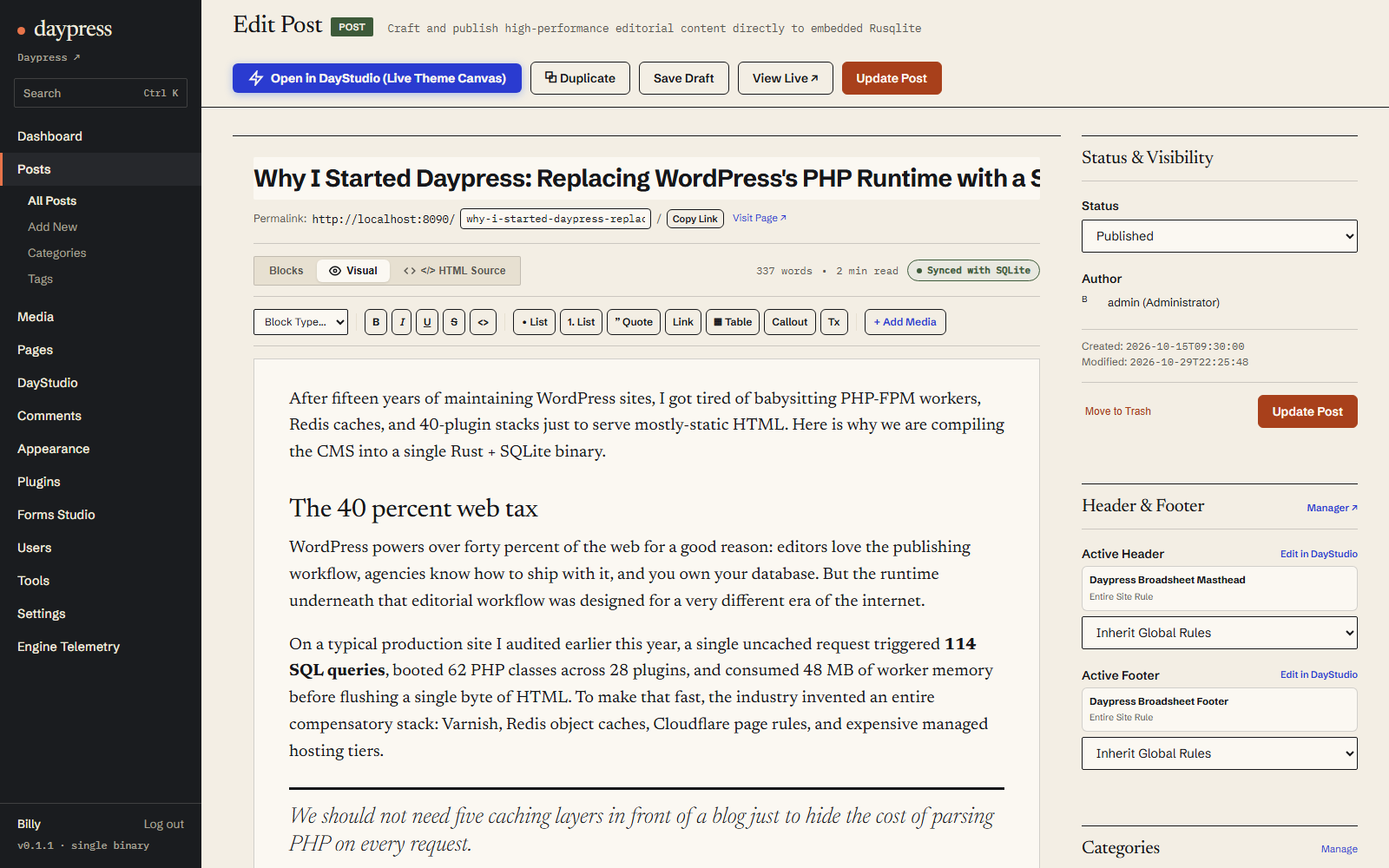
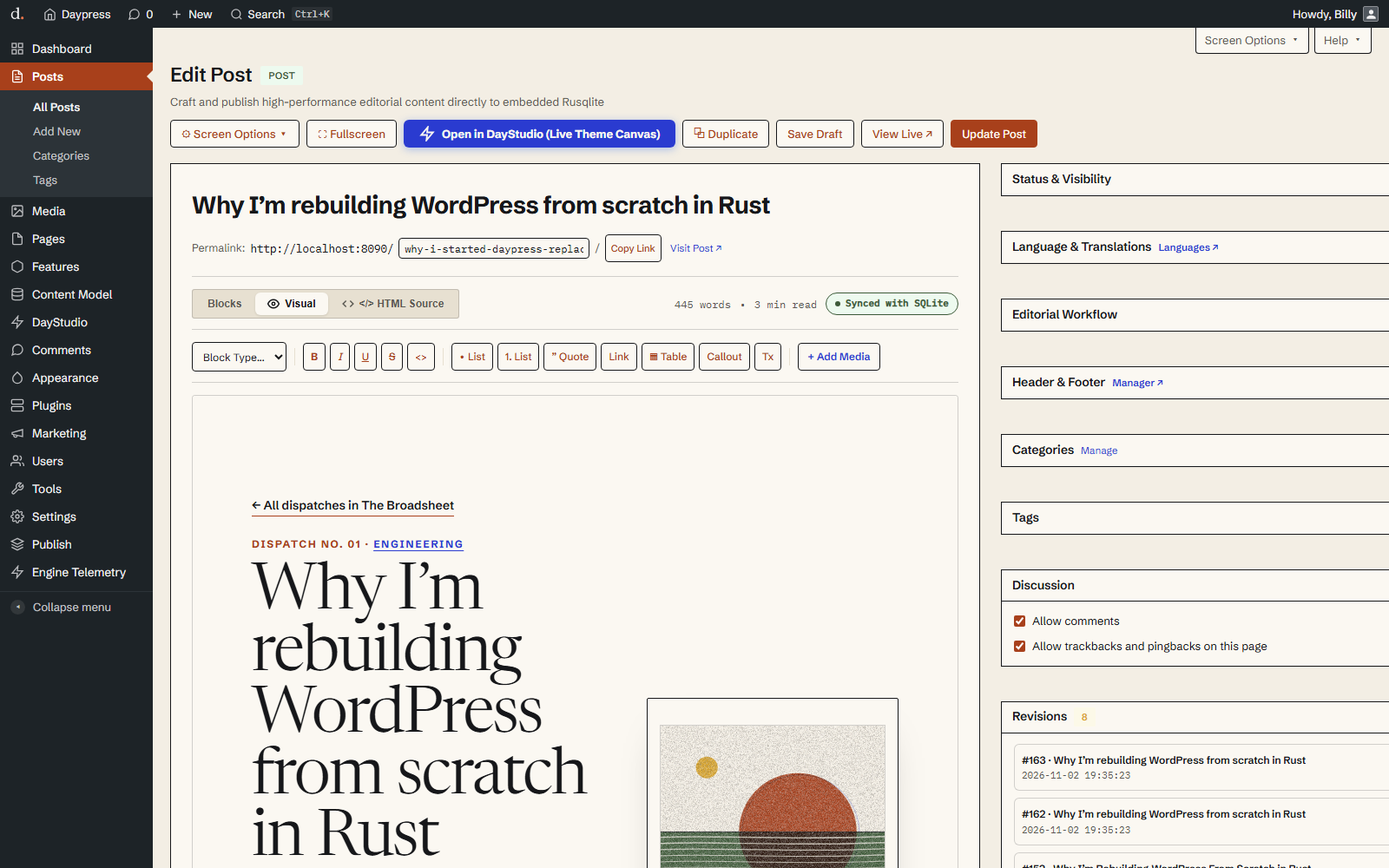
docs: refresh all product screenshots with WordPress-aligned v1.0.2 Admin UX

diff --git a/crates/daypress-server/src/templates/admin/editor/markup/mod.rs b/crates/daypress-server/src/templates/admin/editor/markup/mod.rs
@@ -162,24 +162,28 @@ pub fn render_post_new_view_with_fields(
         String::new()
     };
 
+    let _add_new_action_btn = if existing.is_some() {
+        format!(
+            r#"<a href="/d-admin/post-new?post_type={}" class="page-title-action">Add New {}</a>"#,
+            escape_html(post_type),
+            type_singular
+        )
+    } else {
+        String::new()
+    };
+
     let top_builder_btn = if !initial_id.is_empty() {
         format!(
-            r#"<a href="/d-admin/builder?post={}" class="btn" style="background: linear-gradient(135deg, var(--press) 0%, var(--press) 100%); color: var(--paper-raised); border: none; font-weight: 700; display: inline-flex; align-items: center; gap: 8px; padding: 7px 18px; border-radius: 6px; box-shadow: 0 2px 10px rgba(37, 99, 235, 0.35); text-decoration: none; transition: all 0.2s ease;">
-                <svg width="15" height="15" viewBox="0 0 24 24" fill="none" stroke="currentColor" stroke-width="2.5"><polygon points="13 2 3 14 12 14 11 22 21 10 12 10 13 2"></polygon></svg>
-                <span>Open in DayStudio (Live Theme Canvas)</span>
-            </a>"#,
+            r#"<a href="/d-admin/builder?post={}" class="page-title-action">Edit with DayStudio</a>"#,
             initial_id
         )
     } else {
-        r#"<button type="button" class="btn" id="btnEditVisualBuilder" onclick="switchToVisualBuilder()" style="background: linear-gradient(135deg, var(--press) 0%, var(--press) 100%); color: var(--paper-raised); border: none; font-weight: 600; display: inline-flex; align-items: center; gap: 8px; padding: 7px 16px; border-radius: 6px; box-shadow: 0 2px 8px rgba(37, 99, 235, 0.35); cursor: pointer; transition: all 0.2s ease;">
-            <svg width="15" height="15" viewBox="0 0 24 24" fill="none" stroke="currentColor" stroke-width="2.5"><polygon points="13 2 3 14 12 14 11 22 21 10 12 10 13 2"></polygon></svg>
-            <span>Open in DayStudio</span>
-        </button>"#.to_string()
+        r#"<button type="button" class="page-title-action" id="btnEditVisualBuilder" onclick="switchToVisualBuilder()">Edit with DayStudio</button>"#.to_string()
     };
 
     let duplicate_btn_html = if existing.is_some() {
         format!(
-            r#"<button type="button" class="btn btn-secondary" onclick="duplicateCurrentPost()" title="Deep-clone this {}">⧉ Duplicate</button>"#,
+            r#"<button type="button" class="page-title-action" onclick="duplicateCurrentPost()" title="Duplicate this {}">Duplicate</button>"#,
             type_singular
         )
     } else {
@@ -342,24 +346,22 @@ pub fn render_post_new_view_with_fields(
     );
 
     let body = format!(
-        r#"<div class="page-header">
-            <div><div style="display: flex; align-items: center; gap: 10px;"><h1 class="page-title">{title_label}</h1><span class="badge badge-published" style="font-size: 11px; text-transform: uppercase;">{post_type}</span></div><p class="page-subtitle">Craft and publish high-performance editorial content directly to embedded Rusqlite</p></div>
-            <div style="display: flex; gap: 8px; align-items: center; flex-wrap: wrap;"><button type="button" class="btn btn-secondary" id="btnEditorScreenOptions" onclick="toggleEditorScreenOptions()" title="WordPress Screen Options: Show/Hide Meta Boxes &amp; Column Layout">⚙ Screen Options ▾</button><button type="button" class="btn btn-secondary" id="btnEditorFullscreen" onclick="toggleEditorDistractionFree()" title="Distraction-Free Fullscreen Mode (Shift+Alt+F)">⛶ Fullscreen</button>{top_builder_btn} {duplicate_btn_html}<button type="button" class="btn btn-secondary" onclick="saveDraft()">Save Draft</button><button type="button" class="btn btn-secondary" onclick="previewPage()">View Live ↗</button><button type="button" class="btn btn-primary dp-publish-btn" onclick="document.getElementById('postFormSubmit').click()">{btn_text}</button></div>
-        </div>
-        <div id="editorScreenOptionsPanel" class="day-card" style="display: none; padding: 16px 20px; margin-bottom: 18px; border: 1px solid var(--press); background: var(--paper-raised);">
-            <div style="display: flex; justify-content: space-between; align-items: center; margin-bottom: 12px; padding-bottom: 10px; border-bottom: 1px solid var(--rule);"><div style="display: flex; align-items: center; gap: 10px;"><strong style="font-size: 13px; color: var(--ink);">Screen Options — Boxes &amp; Layout</strong><span class="badge badge-published" style="font-size: 10.5px;">Persisted in User Preferences (SQLite)</span></div><div style="display: flex; gap: 6px; align-items: center;"><button type="button" class="btn btn-secondary" style="height: 26px; padding: 0 10px; font-size: 11.5px;" onclick="toggleAllEditorMetaBoxes(true)">Collapse All Boxes</button><button type="button" class="btn btn-secondary" style="height: 26px; padding: 0 10px; font-size: 11.5px;" onclick="toggleAllEditorMetaBoxes(false)">Expand All Boxes</button><button type="button" class="btn btn-secondary" style="height: 26px; padding: 0 10px; font-size: 11.5px;" onclick="resetEditorScreenOptions()">Reset Defaults</button></div></div>
+        r#"<div id="editorScreenOptionsPanel" class="day-card" style="display: none; padding: 14px 18px; margin-bottom: 16px; border: 1px solid var(--rule-strong); background: var(--paper-raised);">
+            <div style="display: flex; justify-content: space-between; align-items: center; margin-bottom: 10px; padding-bottom: 8px; border-bottom: 1px solid var(--rule);"><strong style="font-size: 13px; color: var(--ink);">Screen Elements</strong><div style="display: flex; gap: 6px; align-items: center;"><button type="button" class="btn btn-secondary" style="min-height: 26px; padding: 2px 10px; font-size: 12px;" onclick="toggleAllEditorMetaBoxes(true)">Collapse All</button><button type="button" class="btn btn-secondary" style="min-height: 26px; padding: 2px 10px; font-size: 12px;" onclick="toggleAllEditorMetaBoxes(false)">Expand All</button><button type="button" class="btn btn-secondary" style="min-height: 26px; padding: 2px 10px; font-size: 12px;" onclick="resetEditorScreenOptions()">Reset Defaults</button></div></div>
             <div style="margin-bottom: 12px;">
-                <div style="font-size: 11.5px; font-weight: 700; color: var(--ink-muted); text-transform: uppercase; letter-spacing: 0.04em; margin-bottom: 8px;">Screen Elements (Check to Show / Uncheck to Hide)</div>
-                <div id="editorScreenOptionsCheckboxes" style="display: flex; flex-wrap: wrap; gap: 14px; font-size: 12.5px;">
-                    <label style="display:inline-flex;align-items:center;gap:6px;cursor:pointer;"><input type="checkbox" class="dp-screen-opt-cb" data-box-id="status_visibility" checked onchange="onEditorScreenOptionToggle('status_visibility', this.checked)" /> Status &amp; Visibility</label><label style="display:inline-flex;align-items:center;gap:6px;cursor:pointer;"><input type="checkbox" class="dp-screen-opt-cb" data-box-id="i18n" checked onchange="onEditorScreenOptionToggle('i18n', this.checked)" /> Language &amp; Translations</label><label style="display:inline-flex;align-items:center;gap:6px;cursor:pointer;"><input type="checkbox" class="dp-screen-opt-cb" data-box-id="editorial_workflow" checked onchange="onEditorScreenOptionToggle('editorial_workflow', this.checked)" /> Editorial Workflow</label><label style="display:inline-flex;align-items:center;gap:6px;cursor:pointer;"><input type="checkbox" class="dp-screen-opt-cb" data-box-id="page_attributes" checked onchange="onEditorScreenOptionToggle('page_attributes', this.checked)" /> Page Attributes</label><label style="display:inline-flex;align-items:center;gap:6px;cursor:pointer;"><input type="checkbox" class="dp-screen-opt-cb" data-box-id="header_footer" checked onchange="onEditorScreenOptionToggle('header_footer', this.checked)" /> Header &amp; Footer</label><label style="display:inline-flex;align-items:center;gap:6px;cursor:pointer;"><input type="checkbox" class="dp-screen-opt-cb" data-box-id="taxonomies" checked onchange="onEditorScreenOptionToggle('taxonomies', this.checked)" /> Categories &amp; Tags</label><label style="display:inline-flex;align-items:center;gap:6px;cursor:pointer;"><input type="checkbox" class="dp-screen-opt-cb" data-box-id="discussion" checked onchange="onEditorScreenOptionToggle('discussion', this.checked)" /> Discussion</label><label style="display:inline-flex;align-items:center;gap:6px;cursor:pointer;"><input type="checkbox" class="dp-screen-opt-cb" data-box-id="featured_image" checked onchange="onEditorScreenOptionToggle('featured_image', this.checked)" /> Featured Image</label><label style="display:inline-flex;align-items:center;gap:6px;cursor:pointer;"><input type="checkbox" class="dp-screen-opt-cb" data-box-id="revisions" checked onchange="onEditorScreenOptionToggle('revisions', this.checked)" /> Revisions</label><label style="display:inline-flex;align-items:center;gap:6px;cursor:pointer;"><input type="checkbox" class="dp-screen-opt-cb" data-box-id="excerpt" checked onchange="onEditorScreenOptionToggle('excerpt', this.checked)" /> Excerpt</label><label style="display:inline-flex;align-items:center;gap:6px;cursor:pointer;"><input type="checkbox" class="dp-screen-opt-cb" data-box-id="structured_fields" checked onchange="onEditorScreenOptionToggle('structured_fields', this.checked)" /> Structured Fields</label><label style="display:inline-flex;align-items:center;gap:6px;cursor:pointer;"><input type="checkbox" class="dp-screen-opt-cb" data-box-id="acf_settings" checked onchange="onEditorScreenOptionToggle('acf_settings', this.checked)" /> ACF Page Settings</label><label style="display:inline-flex;align-items:center;gap:6px;cursor:pointer;"><input type="checkbox" class="dp-screen-opt-cb" data-box-id="custom_fields" checked onchange="onEditorScreenOptionToggle('custom_fields', this.checked)" /> Custom Fields (<code>postmeta</code>)</label><label style="display:inline-flex;align-items:center;gap:6px;cursor:pointer;"><input type="checkbox" class="dp-screen-opt-cb" data-box-id="seo_studio" checked onchange="onEditorScreenOptionToggle('seo_studio', this.checked)" /> SEO &amp; Readability Studio</label>
+                <div id="editorScreenOptionsCheckboxes" style="display: flex; flex-wrap: wrap; gap: 14px; font-size: 13px;">
+                    <label style="display:inline-flex;align-items:center;gap:6px;cursor:pointer;"><input type="checkbox" class="dp-screen-opt-cb" data-box-id="status_visibility" checked onchange="onEditorScreenOptionToggle('status_visibility', this.checked)" /> Publish</label><label style="display:inline-flex;align-items:center;gap:6px;cursor:pointer;"><input type="checkbox" class="dp-screen-opt-cb" data-box-id="i18n" checked onchange="onEditorScreenOptionToggle('i18n', this.checked)" /> Language &amp; Translations</label><label style="display:inline-flex;align-items:center;gap:6px;cursor:pointer;"><input type="checkbox" class="dp-screen-opt-cb" data-box-id="editorial_workflow" checked onchange="onEditorScreenOptionToggle('editorial_workflow', this.checked)" /> Editorial Workflow</label><label style="display:inline-flex;align-items:center;gap:6px;cursor:pointer;"><input type="checkbox" class="dp-screen-opt-cb" data-box-id="page_attributes" checked onchange="onEditorScreenOptionToggle('page_attributes', this.checked)" /> Page Attributes</label><label style="display:inline-flex;align-items:center;gap:6px;cursor:pointer;"><input type="checkbox" class="dp-screen-opt-cb" data-box-id="header_footer" checked onchange="onEditorScreenOptionToggle('header_footer', this.checked)" /> Header &amp; Footer</label><label style="display:inline-flex;align-items:center;gap:6px;cursor:pointer;"><input type="checkbox" class="dp-screen-opt-cb" data-box-id="taxonomies" checked onchange="onEditorScreenOptionToggle('taxonomies', this.checked)" /> Categories &amp; Tags</label><label style="display:inline-flex;align-items:center;gap:6px;cursor:pointer;"><input type="checkbox" class="dp-screen-opt-cb" data-box-id="discussion" checked onchange="onEditorScreenOptionToggle('discussion', this.checked)" /> Discussion</label><label style="display:inline-flex;align-items:center;gap:6px;cursor:pointer;"><input type="checkbox" class="dp-screen-opt-cb" data-box-id="featured_image" checked onchange="onEditorScreenOptionToggle('featured_image', this.checked)" /> Featured Image</label><label style="display:inline-flex;align-items:center;gap:6px;cursor:pointer;"><input type="checkbox" class="dp-screen-opt-cb" data-box-id="revisions" checked onchange="onEditorScreenOptionToggle('revisions', this.checked)" /> Revisions</label><label style="display:inline-flex;align-items:center;gap:6px;cursor:pointer;"><input type="checkbox" class="dp-screen-opt-cb" data-box-id="excerpt" checked onchange="onEditorScreenOptionToggle('excerpt', this.checked)" /> Excerpt</label><label style="display:inline-flex;align-items:center;gap:6px;cursor:pointer;"><input type="checkbox" class="dp-screen-opt-cb" data-box-id="structured_fields" checked onchange="onEditorScreenOptionToggle('structured_fields', this.checked)" /> Structured Fields</label><label style="display:inline-flex;align-items:center;gap:6px;cursor:pointer;"><input type="checkbox" class="dp-screen-opt-cb" data-box-id="acf_settings" checked onchange="onEditorScreenOptionToggle('acf_settings', this.checked)" /> ACF Page Settings</label><label style="display:inline-flex;align-items:center;gap:6px;cursor:pointer;"><input type="checkbox" class="dp-screen-opt-cb" data-box-id="custom_fields" checked onchange="onEditorScreenOptionToggle('custom_fields', this.checked)" /> Custom Fields</label><label style="display:inline-flex;align-items:center;gap:6px;cursor:pointer;"><input type="checkbox" class="dp-screen-opt-cb" data-box-id="seo_studio" checked onchange="onEditorScreenOptionToggle('seo_studio', this.checked)" /> SEO &amp; Readability</label>
                 </div>
             </div>
-            <div style="display: flex; align-items: center; gap: 18px; padding-top: 10px; border-top: 1px solid var(--rule); font-size: 12.5px;"><span style="font-size: 11.5px; font-weight: 700; color: var(--ink-muted); text-transform: uppercase; letter-spacing: 0.04em;">Layout Columns:</span><label style="display:inline-flex;align-items:center;gap:6px;cursor:pointer;"><input type="radio" name="editorScreenLayoutCols" id="editorCols1" value="1" onchange="setEditorColumnLayout(1)" /> 1 Column (Full-Width Stack)</label><label style="display:inline-flex;align-items:center;gap:6px;cursor:pointer;"><input type="radio" name="editorScreenLayoutCols" id="editorCols2" value="2" checked onchange="setEditorColumnLayout(2)" /> 2 Columns (Main + Sidebar)</label><span style="margin-left: auto; font-size: 11.5px; color: var(--ink-muted);">Tip: Use <strong>↑ ↓ ⇄ ▾</strong> or drag any card header to reorder, move between columns, or collapse.</span></div>
+            <div style="display: flex; align-items: center; gap: 18px; padding-top: 10px; border-top: 1px solid var(--rule); font-size: 13px;"><strong style="font-size: 13px; color: var(--ink);">Layout:</strong><label style="display:inline-flex;align-items:center;gap:6px;cursor:pointer;"><input type="radio" name="editorScreenLayoutCols" id="editorCols1" value="1" onchange="setEditorColumnLayout(1)" /> 1 Column</label><label style="display:inline-flex;align-items:center;gap:6px;cursor:pointer;"><input type="radio" name="editorScreenLayoutCols" id="editorCols2" value="2" checked onchange="setEditorColumnLayout(2)" /> 2 Columns</label></div>
+        </div>
+        <div class="page-header">
+            <div><h1 class="page-title">{title_label}</h1>{add_new_action_btn}{top_builder_btn}{duplicate_btn_html}</div>
         </div>
         <form id="postForm" onsubmit="savePost(event)">
             <button type="submit" id="postFormSubmit" style="display: none;"></button>
             <input type="hidden" id="featured_media" value="{initial_featured_media}" />
-            <div id="editorColumnsGrid" style="display: grid; grid-template-columns: 3fr 1fr; gap: 24px;"><div id="editorMainColumn" style="display: flex; flex-direction: column; gap: 20px;">{editor_card}{structured_fields_card}{acf_card}{custom_fields_card}{seo_card}</div>{sidebar_html}</div>
+            <div id="editorColumnsGrid" style="display: grid; grid-template-columns: minmax(0, 1fr) 280px; gap: 20px; align-items: start;"><div id="editorMainColumn" style="display: flex; flex-direction: column; min-width: 0;">{editor_card}{structured_fields_card}{acf_card}{custom_fields_card}{seo_card}</div>{sidebar_html}</div>
         </form>
         {media_modal}<script>{editor_scripts}</script>"#
     );

diff --git a/crates/daypress-server/src/templates/admin/layout/styles_forms.rs b/crates/daypress-server/src/templates/admin/layout/styles_forms.rs
@@ -228,23 +228,163 @@ pub fn get_styles_forms() -> &'static str {
 			color: #ffffff;
 		}
 
-		/* Classic editor canvas: clean sans-serif editing surface. */
+		/* ==================== WORDPRESS POST/PAGE EDITOR (#titlediv, #postdivrich, .wp-switch-editor) ==================== */
+		.wp-title-input {
+			width: 100% !important;
+			height: 40px !important;
+			padding: 3px 10px !important;
+			font: 400 20px/1.4 var(--font-sans) !important;
+			background: var(--paper-raised) !important;
+			color: var(--ink) !important;
+			border: 1px solid var(--rule-strong) !important;
+			border-radius: var(--radius-sm) !important;
+			box-shadow: inset 0 1px 2px rgba(0, 0, 0, 0.04);
+		}
+
+		#edit-slug-box {
+			display: flex;
+			align-items: center;
+			flex-wrap: wrap;
+			gap: 6px;
+			min-height: 24px;
+			margin: 8px 0 12px;
+			padding: 0 2px;
+			font: 400 13px/1.5 var(--font-sans);
+			color: var(--ink-muted);
+		}
+
+		.wp-slug-input {
+			width: 190px !important;
+			height: 24px !important;
+			padding: 0 6px !important;
+			font: 400 12.5px/22px var(--font-sans) !important;
+			background: var(--paper-raised) !important;
+			color: var(--ink) !important;
+			border: 1px solid var(--rule-strong) !important;
+			border-radius: 2px !important;
+		}
+
+		#wp-content-editor-tools {
+			display: flex;
+			justify-content: space-between;
+			align-items: flex-end;
+			gap: 8px;
+			padding-top: 4px;
+		}
+
+		#wp-content-media-buttons {
+			padding-bottom: 4px;
+			display: flex;
+			align-items: center;
+			gap: 6px;
+		}
+
+		.wp-editor-tabs {
+			display: inline-flex;
+			align-items: flex-end;
+			gap: 3px;
+		}
+
+		.wp-switch-editor {
+			float: left;
+			box-sizing: content-box;
+			position: relative;
+			top: 1px;
+			background: var(--paper);
+			color: var(--ink-muted);
+			cursor: pointer;
+			font: 400 13px/19px var(--font-sans);
+			height: 20px;
+			margin: 0;
+			padding: 4px 12px;
+			border: 1px solid var(--rule-strong);
+			border-bottom-color: var(--rule-strong);
+			border-radius: 2px 2px 0 0;
+		}
+
+		.wp-switch-editor:hover {
+			color: var(--ink);
+		}
+
+		.wp-switch-editor.is-active {
+			background: var(--paper-sunk);
+			color: var(--ink);
+			border-bottom-color: var(--paper-sunk);
+			font-weight: 600;
+			z-index: 2;
+		}
+
+		#wp-content-editor-container {
+			border: 1px solid var(--rule-strong);
+			background: var(--paper-raised);
+		}
+
+		.wp-editor-toolbar {
+			background: var(--paper-sunk);
+			border-bottom: 1px solid var(--rule-strong);
+			padding: 5px 8px;
+			display: flex;
+			flex-wrap: wrap;
+			align-items: center;
+			gap: 2px;
+		}
+
+		.wp-mce-btn {
+			display: inline-flex;
+			align-items: center;
+			justify-content: center;
+			min-width: 26px;
+			height: 26px;
+			padding: 0 6px;
+			border: 1px solid transparent;
+			border-radius: 2px;
+			background: transparent;
+			color: #50575e;
+			font: 500 12.5px/1 var(--font-sans);
+			cursor: pointer;
+		}
+
+		.wp-mce-btn:hover {
+			border-color: var(--rule-strong);
+			background: var(--paper-raised);
+			color: var(--ink);
+		}
+
+		.wp-mce-sep {
+			width: 1px;
+			height: 18px;
+			background: var(--rule-strong);
+			margin: 0 4px;
+		}
+
+		#post-status-info {
+			background: var(--paper-sunk);
+			border: 1px solid var(--rule-strong);
+			border-top: 0;
+			padding: 4px 10px;
+			font: 400 12px/18px var(--font-sans);
+			color: var(--ink-muted);
+			display: flex;
+			justify-content: space-between;
+			align-items: center;
+		}
+
+		/* Classic editor canvas: clean sans-serif editing surface inside #wp-content-editor-container */
 		.day-visual-canvas {
-			min-height: 480px;
+			min-height: 420px;
 			max-height: 800px;
 			overflow-y: auto;
-			padding: 28px 36px;
+			padding: 16px 20px;
 			background: var(--paper-raised);
-			border: 1px solid var(--rule);
-			border-radius: var(--radius-md);
-			font: 400 16px/1.65 var(--font-sans);
+			border: 0;
+			border-radius: 0;
+			font: 400 15px/1.65 var(--font-sans);
 			color: var(--ink);
 			outline: none;
-			transition: border-color 0.12s;
 		}
 
 		.day-visual-canvas:focus {
-			border-color: var(--press);
+			outline: none;
 		}
 
 		.day-visual-canvas[placeholder]:empty:before {
@@ -253,41 +393,36 @@ pub fn get_styles_forms() -> &'static str {
 			pointer-events: none;
 		}
 
-		.day-visual-canvas h1 { font: 600 30px/1.2 var(--font-sans); letter-spacing: -0.015em; margin: 1.1em 0 0.4em; }
-		.day-visual-canvas h2 { font: 600 24px/1.25 var(--font-sans); letter-spacing: -0.01em; margin: 1.1em 0 0.4em; }
-		.day-visual-canvas h3 { font: 600 19px/1.3 var(--font-sans); margin: 1em 0 0.35em; }
-		.day-visual-canvas h4 { font: 600 16px/1.35 var(--font-sans); margin: 1em 0 0.3em; }
+		.day-visual-canvas h1 { font: 600 28px/1.2 var(--font-sans); letter-spacing: -0.015em; margin: 1.1em 0 0.4em; }
+		.day-visual-canvas h2 { font: 600 22px/1.25 var(--font-sans); letter-spacing: -0.01em; margin: 1.1em 0 0.4em; }
+		.day-visual-canvas h3 { font: 600 18px/1.3 var(--font-sans); margin: 1em 0 0.35em; }
+		.day-visual-canvas h4 { font: 600 15px/1.35 var(--font-sans); margin: 1em 0 0.3em; }
 		.day-visual-canvas p { margin: 0 0 1em 0; }
-		.day-visual-canvas blockquote { margin: 20px 0; padding: 12px 16px; border-left: 3px solid var(--press); background: var(--paper-sunk); font: 400 16px/1.55 var(--font-sans); }
-		.day-visual-canvas img { max-width: 100%; height: auto; margin: 16px 0; display: block; }
+		.day-visual-canvas blockquote { margin: 16px 0; padding: 10px 16px; border-left: 3px solid var(--press); background: var(--paper-sunk); font: 400 15px/1.55 var(--font-sans); }
+		.day-visual-canvas img { max-width: 100%; height: auto; margin: 14px 0; display: block; }
 		.day-visual-canvas code { background: var(--paper-sunk); padding: 1px 5px; border-radius: var(--radius-sm); font-family: var(--font-mono); font-size: 0.85em; }
-		.day-visual-canvas pre { background: var(--paper-sunk); color: var(--ink); padding: 16px; border-radius: var(--radius-sm); overflow-x: auto; font: 400 13.5px/20px var(--font-mono); margin: 16px 0; }
+		.day-visual-canvas pre { background: var(--paper-sunk); color: var(--ink); padding: 14px; border-radius: var(--radius-sm); overflow-x: auto; font: 400 13px/20px var(--font-mono); margin: 14px 0; }
 		.day-visual-canvas ul, .day-visual-canvas ol { padding-left: 24px; margin: 0 0 1em 0; }
 		.day-visual-canvas li { margin-bottom: 4px; }
-		.day-visual-canvas table { width: 100%; border-collapse: collapse; margin: 16px 0; font: 400 14px/1.5 var(--font-sans); }
+		.day-visual-canvas table { width: 100%; border-collapse: collapse; margin: 14px 0; font: 400 14px/1.5 var(--font-sans); }
 		.day-visual-canvas th, .day-visual-canvas td { border-bottom: 1px solid var(--rule); padding: 8px 12px; text-align: left; }
 		.day-visual-canvas th { border-bottom-color: var(--rule-strong); font-weight: 600; }
 		.day-visual-canvas a { color: var(--press); text-decoration: underline; text-underline-offset: 3px; }
 
 		.day-html-textarea {
 			width: 100%;
-			min-height: 480px;
+			min-height: 420px;
 			max-height: 800px;
 			font: 400 13.5px/20px var(--font-mono);
-			background: var(--paper-sunk);
+			background: var(--paper-raised);
 			color: var(--ink);
-			padding: 18px;
-			border-radius: var(--radius-md);
-			border: 1px solid var(--rule-strong);
+			padding: 14px 16px;
+			border-radius: 0;
+			border: 0 !important;
 			resize: vertical;
-			outline: none;
+			outline: none !important;
 			tab-size: 4;
 			box-sizing: border-box;
-		}
-
-		.day-html-textarea:focus {
-			border-color: var(--focus);
-			outline: 1px solid var(--focus);
 		}
 "#
 }

diff --git a/crates/daypress-server/src/templates/admin/editor/scripts/core.rs b/crates/daypress-server/src/templates/admin/editor/scripts/core.rs
@@ -339,11 +339,7 @@ pub fn render_core_script(
                 const acfContainer = document.getElementById('acfBlocksContainer');
 
                 [btnBlocks, btnVisual, btnHtml].forEach(b => {{
-                    if (b) {{
-                        b.style.background = 'transparent';
-                        b.style.color = 'var(--ink-muted)';
-                        b.style.boxShadow = 'none';
-                    }}
+                    if (b) b.classList.remove('is-active');
                 }});
 
                 if (mode === 'blocks') {{
@@ -351,7 +347,7 @@ pub fn render_core_script(
                     if (acfContainer) acfContainer.style.display = 'block';
                     visualEditor.style.display = 'none'; contentArea.style.display = 'none';
                     if (toolbar) toolbar.style.display = 'none';
-                    if (btnBlocks) {{ btnBlocks.style.background = 'var(--paper-raised)'; btnBlocks.style.color = 'var(--ink)'; btnBlocks.style.boxShadow = '0 1px 3px rgba(0,0,0,0.1)'; }}
+                    if (btnBlocks) btnBlocks.classList.add('is-active');
                     if (!silent) showToast('Switched to Blocks View');
                 }} else if (mode === 'visual') {{
                     visualEditor.innerHTML = cleanWpContent(contentArea.value);
@@ -359,14 +355,14 @@ pub fn render_core_script(
                     if (acfContainer) acfContainer.style.display = 'none';
                     visualEditor.style.display = 'block'; contentArea.style.display = 'none';
                     if (toolbar) toolbar.style.display = 'flex';
-                    btnVisual.style.background = 'var(--paper-raised)'; btnVisual.style.color = 'var(--ink)'; btnVisual.style.boxShadow = '0 1px 3px rgba(0,0,0,0.1)';
+                    if (btnVisual) btnVisual.classList.add('is-active');
                     if (!silent) showToast('Switched to Visual Editor');
                 }} else if (mode === 'html') {{
                     if (acfContainer) acfContainer.style.display = 'none';
                     visualEditor.style.display = 'none'; contentArea.style.display = 'block';
                     if (toolbar) toolbar.style.display = 'flex';
-                    btnHtml.style.background = 'var(--paper-raised)'; btnHtml.style.color = 'var(--ink)'; btnHtml.style.boxShadow = '0 1px 3px rgba(0,0,0,0.1)';
-                    if (!silent) showToast('Switched to HTML Source View');
+                    if (btnHtml) btnHtml.classList.add('is-active');
+                    if (!silent) showToast('Switched to Code View');
                 }}
                 updateWordCount();
             }}
